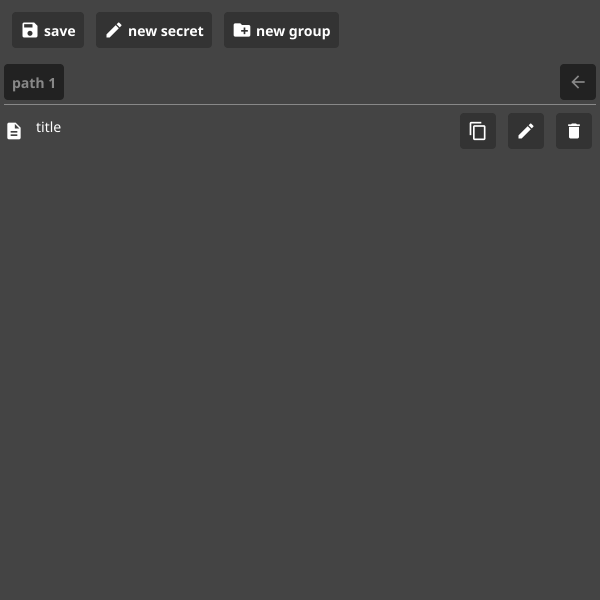
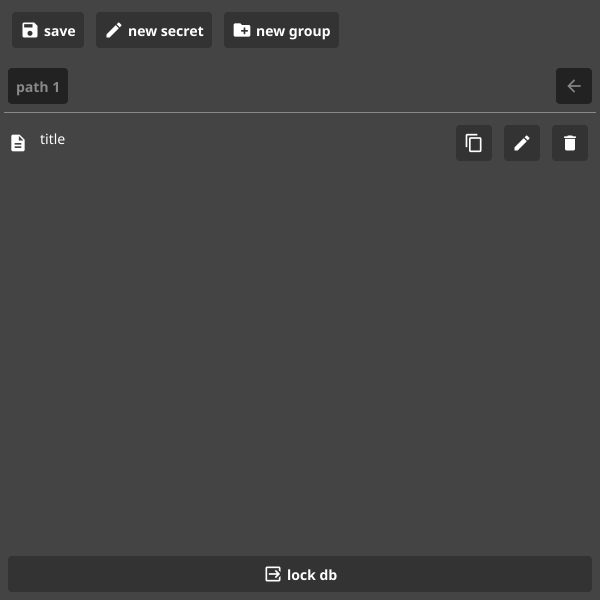
[ENH-18] Lock files

diff --git a/internal/ui/navview.go b/internal/ui/navview.go
@@ -17,13 +17,14 @@ import (
 )
 
 type NavView struct {
-	stageManager            *StageManager
+	stagerController        StagerController
 	navAndListContainer     *fyne.Container
 	navTop                  *fyne.Container
 	SaveButton              *widget.Button
 	GroupCreateButton       *widget.Button
 	SecretEntryCreateButton *widget.Button
 	GoBackButton            *widget.Button
+	LockDBButton            *widget.Button
 	breadCrumbs             *fyne.Container
 	generalButtons          *fyne.Container
 	listPanel               *fyne.Container
@@ -61,8 +62,8 @@ func (n *NavView) DataChanged() {
 		}
 	}
 
-	if n.stageManager != nil {
-		err := n.stageManager.TakeOver(n.GetStageName())
+	if n.stagerController != nil {
+		err := n.stagerController.TakeOver(n.GetStageName())
 		if err != nil {
 			slog.Error(err.Error())
 		}
@@ -297,7 +298,7 @@ func createListNav(path string, parent fyne.Window, navView *NavView) (*widget.L
 	return newList, nil
 }
 
-func CreateNavView(secretsReader secretsreader.SecretReader, addEntryView EntryUpdater, parent fyne.Window, stageManager *StageManager) NavView {
+func CreateNavView(secretsReader secretsreader.SecretReader, addEntryView EntryUpdater, parent fyne.Window, stagerController StagerController) NavView {
 
 	breadCrumbs := container.NewHBox()
 	generalButtons := container.NewHBox()
@@ -310,7 +311,7 @@ func CreateNavView(secretsReader secretsreader.SecretReader, addEntryView EntryU
 
 	navTop := container.NewBorder(container.NewPadded(
 		generalButtons,
-	), breadcrumbsWithBackButton, nil, nil, nil)
+	), container.NewPadded(breadcrumbsWithBackButton), nil, nil, nil)
 
 	saveButton := widget.NewButtonWithIcon("save", theme.DocumentSaveIcon(), func() {
 
@@ -321,15 +322,23 @@ func CreateNavView(secretsReader secretsreader.SecretReader, addEntryView EntryU
 	secretEntryCreateButton := widget.NewButtonWithIcon("new secret", theme.DocumentCreateIcon(), func() {
 
 	})
+
+	lockDBButton := widget.NewButtonWithIcon("lock db", theme.LogoutIcon(), func() {
+		err := stagerController.TakeOver("Home")
+		if err != nil {
+			dialog.ShowError(err, parent)
+		}
+	})
+
 	generalButtons.Add(container.NewPadded(saveButton))
 	generalButtons.Add(container.NewPadded(secretEntryCreateButton))
 	generalButtons.Add(container.NewPadded(groupCreateButton))
 
-	listPanel := container.NewStack()
-	navAndListContainer := container.NewBorder(container.NewVBox(navTop, widget.NewSeparator()), nil, nil, nil, listPanel)
+	listPanel := container.NewPadded()
+	navAndListContainer := container.NewBorder(container.NewVBox(navTop, widget.NewSeparator()), container.NewPadded(lockDBButton), nil, nil, listPanel)
 
 	return NavView{
-		stageManager:            stageManager,
+		stagerController:        stagerController,
 		navAndListContainer:     navAndListContainer,
 		breadCrumbs:             breadCrumbs,
 		listPanel:               listPanel,
@@ -338,6 +347,7 @@ func CreateNavView(secretsReader secretsreader.SecretReader, addEntryView EntryU
 		secretsReader:           secretsReader,
 		currentPath:             "",
 		GoBackButton:            goBackButton,
+		LockDBButton:            lockDBButton,
 		generalButtons:          generalButtons,
 		navTop:                  navTop,
 		SaveButton:              saveButton,

diff --git a/internal/mocks/ui/mock_stagemanager.go b/internal/mocks/ui/mock_stagemanager.go
@@ -10,6 +10,7 @@
 package mock_ui
 
 import (
+	ui "keepassui/internal/ui"
 	reflect "reflect"
 
 	fyne "fyne.io/fyne/v2"
@@ -37,6 +38,32 @@ func NewMockStagerController(ctrl *gomock.Controller) *MockStagerController {
 // EXPECT returns an object that allows the caller to indicate expected use.
 func (m *MockStagerController) EXPECT() *MockStagerControllerMockRecorder {
 	return m.recorder
+}
+
+// GetContainer mocks base method.
+func (m *MockStagerController) GetContainer() *fyne.Container {
+	m.ctrl.T.Helper()
+	ret := m.ctrl.Call(m, "GetContainer")
+	ret0, _ := ret[0].(*fyne.Container)
+	return ret0
+}
+
+// GetContainer indicates an expected call of GetContainer.
+func (mr *MockStagerControllerMockRecorder) GetContainer() *gomock.Call {
+	mr.mock.ctrl.T.Helper()
+	return mr.mock.ctrl.RecordCallWithMethodType(mr.mock, "GetContainer", reflect.TypeOf((*MockStagerController)(nil).GetContainer))
+}
+
+// RegisterStager mocks base method.
+func (m *MockStagerController) RegisterStager(stager ui.Stager) {
+	m.ctrl.T.Helper()
+	m.ctrl.Call(m, "RegisterStager", stager)
+}
+
+// RegisterStager indicates an expected call of RegisterStager.
+func (mr *MockStagerControllerMockRecorder) RegisterStager(stager any) *gomock.Call {
+	mr.mock.ctrl.T.Helper()
+	return mr.mock.ctrl.RecordCallWithMethodType(mr.mock, "RegisterStager", reflect.TypeOf((*MockStagerController)(nil).RegisterStager), stager)
 }
 
 // TakeOver mocks base method.

diff --git a/internal/ui/maincontent.go b/internal/ui/maincontent.go
@@ -6,14 +6,15 @@ import (
 )
 
 type MainContent struct {
+	HomeView             HomeView
 	DBFileEntry          DBFileEntry
 	MasterPasswordDialog MasterPasswordDialog
 	NavView              NavView
-	stageManager         StageManager
+	StagerController     StagerController
 }
 
 func (m *MainContent) MakeUI() fyne.CanvasObject {
-	return container.NewStack(container.NewBorder(m.DBFileEntry.Container, nil, nil, nil, m.stageManager.currentViewContainer))
+	return m.StagerController.GetContainer()
 }
 
 func CreateMainContent(parent fyne.Window, stor fyne.Storage) MainContent {
@@ -23,16 +24,19 @@ func CreateMainContent(parent fyne.Window, stor fyne.Storage) MainContent {
 	stageManager := CreateStageManager(currentContainer)
 	addEntryView := CreateAddEntryView(secretsReader, "NavView", stageManager)
 	navView := CreateNavView(secretsReader, &addEntryView, parent, &stageManager)
+	homeView := CreateHomeView(&dbFileEntry, stageManager)
 
+	stageManager.RegisterStager(&homeView)
 	stageManager.RegisterStager(&navView)
 	stageManager.RegisterStager(&addEntryView)
 
 	masterPasswordDialog.AddListener(&navView)
 
 	return MainContent{
+		HomeView:             homeView,
 		DBFileEntry:          dbFileEntry,
 		MasterPasswordDialog: masterPasswordDialog,
 		NavView:              navView,
-		stageManager:         stageManager,
+		StagerController:     stageManager,
 	}
 }

diff --git a/internal/ui/navview_test.go b/internal/ui/navview_test.go
@@ -334,3 +334,34 @@ func TestNavView_TapOnEditGroupOpensNewGroupDialog(t *testing.T) {
 
 	test.AssertImageMatches(t, "navView_two_groups_tap_edit_group_button.png", w.Canvas().Capture())
 }
+
+func TestNavView_TapLockDBButtonCallsHome(t *testing.T) {
+	w := test.NewWindow(container.NewWithoutLayout())
+	mockCtrl := gomock.NewController(t)
+	defer mockCtrl.Finish()
+
+	secretReader := mock_secretsreader.NewMockSecretReader(mockCtrl)
+
+	secretsDBWithTwoGroups := secretsDBWithTwoGroups()
+	secretReader.EXPECT().ReadEntriesFromContentGroupedByPath().Times(1).Return(nil)
+	secretReader.EXPECT().GetUriID().Times(1).Return("file://path")
+	secretReader.EXPECT().GetFirstPath().Times(1).Return("path 1")
+	secretReader.EXPECT().GetEntriesForPath("path 1").Times(1).Return(secretsDBWithTwoGroups.EntriesByPath["path 1"])
+
+	mock_stagercontroller := mocks_ui.NewMockStagerController(mockCtrl)
+
+	navView := ui.CreateNavView(secretReader, nil, w, mock_stagercontroller)
+
+	mock_stagercontroller.EXPECT().TakeOver("NavView").Times(1)
+
+	navView.DataChanged()
+
+	w.SetContent(navView.GetPaintedContainer())
+	w.Resize(fyne.NewSize(600, 600))
+
+	test.AssertImageMatches(t, "navView_two_groups.png", w.Canvas().Capture())
+
+	mock_stagercontroller.EXPECT().TakeOver("Home").Times(1)
+
+	test.Tap(navView.LockDBButton)
+}

diff --git a/internal/ui/home_view.go b/internal/ui/home_view.go
@@ -1,0 +1,26 @@
+package ui
+
+import (
+	"fyne.io/fyne/v2"
+	"fyne.io/fyne/v2/container"
+)
+
+type HomeView struct {
+	DefaultStager
+	dbFileEntry      *DBFileEntry
+	StagerController StagerController
+	homeContainer    *fyne.Container
+}
+
+func CreateHomeView(dbFileEntry *DBFileEntry, StagerController StagerController) HomeView {
+	homeContainer := container.NewBorder(container.NewPadded(dbFileEntry.Container), nil, nil, nil, nil)
+	return HomeView{DefaultStager: DefaultStager{}, dbFileEntry: dbFileEntry, StagerController: StagerController, homeContainer: homeContainer}
+}
+
+func (a *HomeView) GetPaintedContainer() *fyne.Container {
+	return a.homeContainer
+}
+
+func (a *HomeView) GetStageName() string {
+	return "Home"
+}

diff --git a/internal/ui/stagemanager.go b/internal/ui/stagemanager.go
@@ -15,6 +15,8 @@ type StageManager struct {
 
 type StagerController interface {
 	TakeOver(name string) error
+	RegisterStager(stager Stager)
+	GetContainer() *fyne.Container
 }
 
 type DefaultStager struct {
@@ -52,6 +54,10 @@ func (s StageManager) TakeOver(name string) error {
 	s.currentViewContainer.Refresh()
 
 	return nil
+}
+
+func (s StageManager) GetContainer() *fyne.Container {
+	return s.currentViewContainer
 }
 
 func (d *DefaultStager) ExecuteOnTakeOver() {

diff --git a/main.go b/main.go
@@ -5,6 +5,7 @@ import (
 
 	"fyne.io/fyne/v2"
 	"fyne.io/fyne/v2/app"
+	"fyne.io/fyne/v2/dialog"
 )
 
 func main() {
@@ -15,6 +16,9 @@ func main() {
 
 	w.SetContent(mainContent.MakeUI())
 	w.Resize(fyne.NewSize(600, 600))
-
+	err := mainContent.StagerController.TakeOver(mainContent.HomeView.GetStageName())
+	if err != nil {
+		dialog.ShowError(err, w)
+	}
 	w.ShowAndRun()
 }
